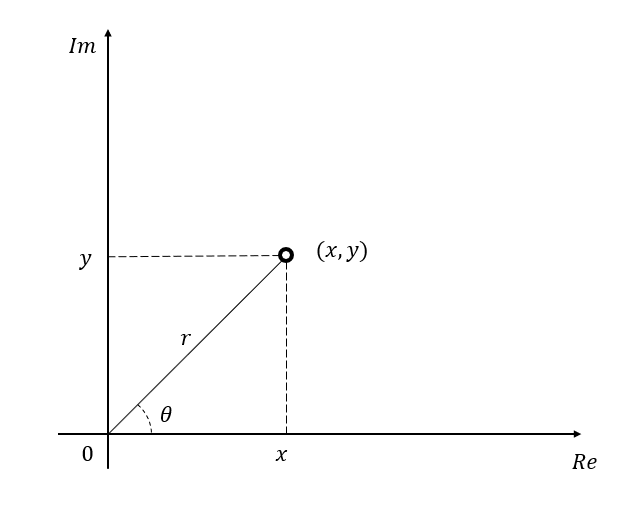
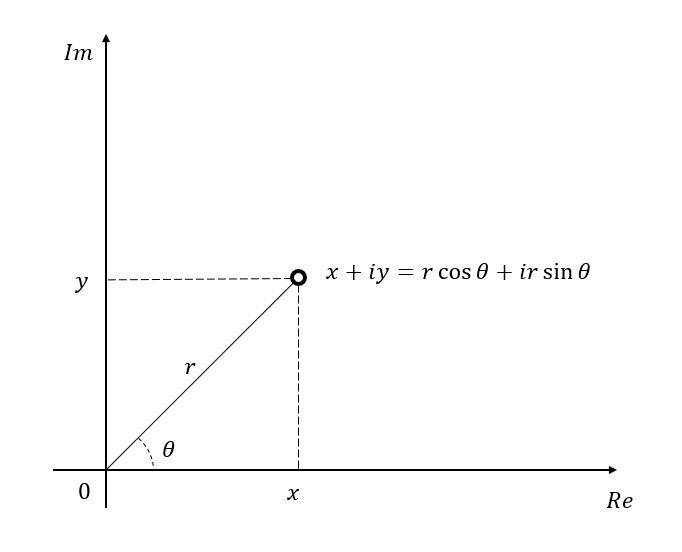
Euler Eq. 미분방정식 이용 / 그림 추가

diff --git a/_posts/2020-09-22-Euler_Formula_Differential_Equation.md b/_posts/2020-09-22-Euler_Formula_Differential_Equation.md
@@ -22,7 +22,11 @@ $$x+iy = r\cos(\theta) + i r\sin(\theta)$$
 
 이다.
 
-[//]:# (그림 넣을 것. x, y를 r theta도 같이 표현)
+<p align = "center">
+  <img src = "https://raw.githubusercontent.com/angeloyeo/angeloyeo.github.io/master/pics/2020-09-22-Euler_Formula_Differential_Equation/pic1.png">
+  <br>
+  그림 1. 복소평면 상의 점 하나는 복소수 하나를 표현한다.
+</p>
 
 
 여기서 $r=1$인 경우를 상정해 이 값을 $z$라고 하도록 하자.
@@ -33,8 +37,12 @@ $$z = \cos(\theta) + i \sin(\theta)$$
 
 이 $z$라는 값은 반지름이 1인 단위 원 상의 점이 된다.
 
-[//]:# (그림 넣을 것. 단위 원 하나 그리고 각도가 theta인 곳의 좌표 하나 찍을 것)
 
+<p align = "center">
+  <img src = "https://raw.githubusercontent.com/angeloyeo/angeloyeo.github.io/master/pics/2020-09-22-Euler_Formula_Differential_Equation/pic2.png">
+  <br>
+  그림 2. 복소평면 상의 단위원 위의 점 $z$. $z$는 $x$축 과의 각도가 $\theta$이다.
+</p>
 
 여기서 $z$를 $\theta$에 대해 미분해보면 그 값은 다음과 같다.
 
